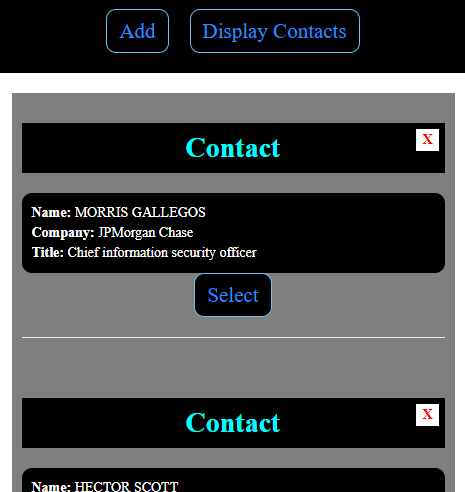
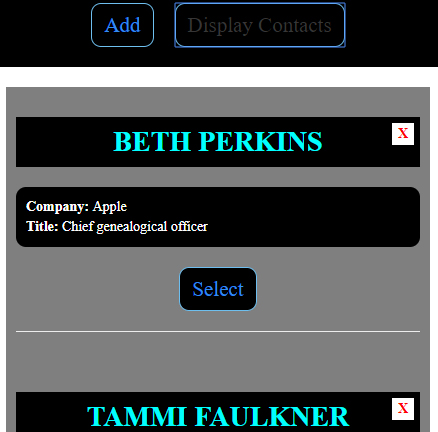
Forms

diff --git a/src/components/addr_book/ShowContactsComponent.js b/src/components/addr_book/ShowContactsComponent.js
@@ -62,14 +62,13 @@ const ShowContactsComponent = ({ data, selectedContact, status, onClickDelete, o
                     {data.map((aUnit, index) =>
                         <tr key={index}><td style={{ 'padding': '10px', 'backgroundColor': 'gray' }}>
                             <div className="relative">
-                                <h3 align="center" className="centeredChapterTitle"><b>Contact</b></h3>
+                                <h3 align="center" className="centeredChapterTitle"><b>{aUnit.name}</b></h3>
                                 <button type="button" className="btnDelete" onClick={e => {
                                     e.preventDefault()
                                     onClickDelete(aUnit._id)
                                 }}>X</button>
                             </div>
                             <div style={{ 'padding': '10px', 'backgroundColor': 'black', 'color': 'white', 'borderRadius': '10px' }}>
-                                <b>Name:</b> {aUnit.name}<br />
                                 <b>Company:</b> {aUnit.company}<br />
                                 <b>Title:</b> {aUnit.title}
                             </div>
